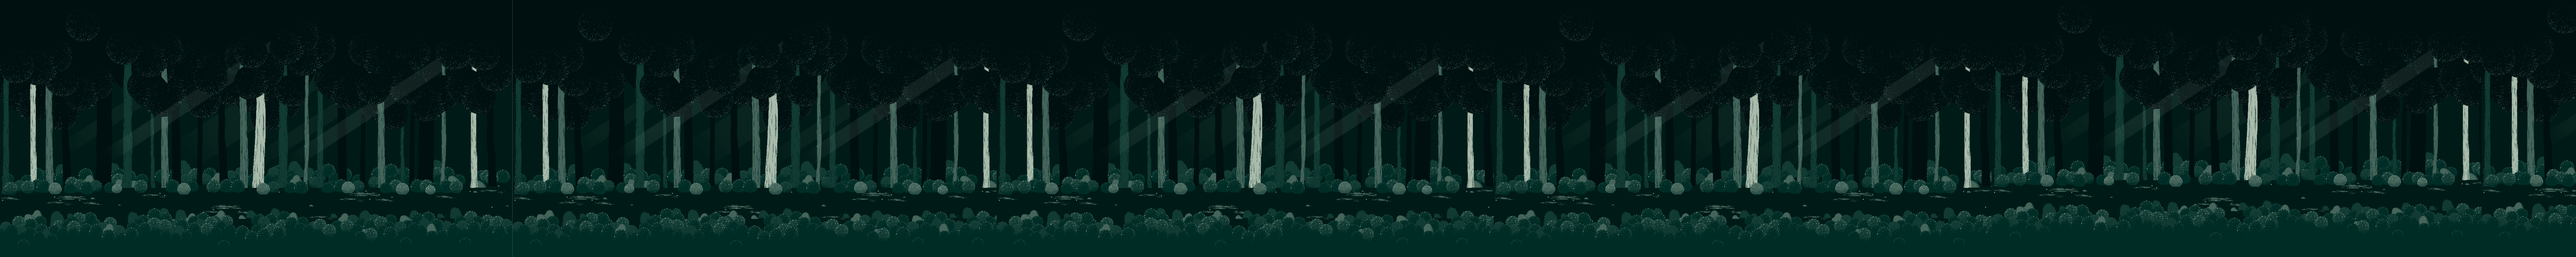
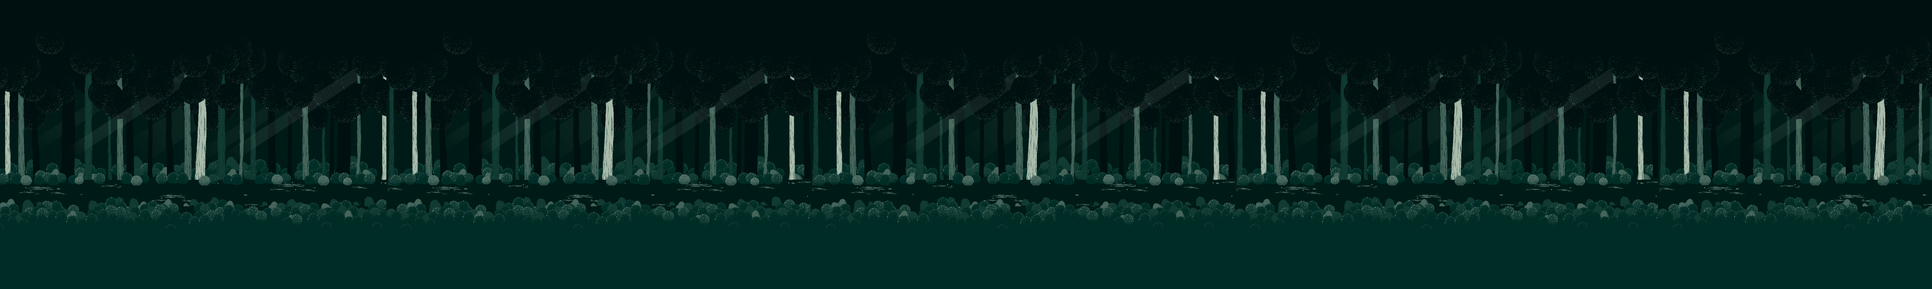
fixed background

diff --git a/can you save them!.cpp b/can you save them!.cpp
@@ -11,6 +11,9 @@ float const left_wall = 0;
 
 static const float view_height = 800;
 
+// Function to handle level transition
+
+
 
 
 struct player
@@ -72,6 +75,74 @@ struct player
 
     }
 };
+
+void handleLevelTransition(Sprite& background, player& player1, const Vector2f& originalPlayerPosition, const Texture& levelTexture) {
+    // Change the background to level 2
+    background.setTexture(levelTexture);
+    background.setScale(1.2f, 1.2f);
+    background.setPosition(0.f, -40.f);
+
+    // Reset player's position
+    player1.rect.left = originalPlayerPosition.x;
+    player1.rect.top = originalPlayerPosition.y;
+}
+
+struct enemyhana {
+    Sprite sprite;
+    int speed;
+    float animation = 0;
+    FloatRect rect;
+    float currentframe;
+    float move_x;
+    bool movingRight; // Flag to indicate the direction of movement
+
+    void initial_values(Texture& playerTexture)
+    {
+        sprite.setTexture(playerTexture);
+        sprite.setScale(2.0, 2.0);
+        move_x = 0;
+        currentframe = 0;
+        movingRight = true; // Start moving to the right initially
+
+        // Set initial position
+        rect.left = 900; // Start position x = 500
+        rect.top = 700;  // Adjust as needed
+    }
+
+    void update(float timer)
+    {
+        
+        // Update position
+        rect.left += move_x * timer;
+
+        // Switch direction if reaching the boundaries
+        if (rect.left >= 800)
+            movingRight = false;
+        else if (rect.left <= 500)
+            movingRight = true;
+
+        // Update animation
+        currentframe += 0.005 * timer;
+        if (currentframe > 8)
+        {
+            currentframe -= 8;
+        }
+
+        // Set sprite texture based on direction
+        if (move_x > 0)
+            sprite.setTextureRect(IntRect(48 * int(currentframe), 0, 48, 48));
+        else if (move_x < 0)
+            sprite.setTextureRect(IntRect(48 * int(currentframe) + 48, 0, -48, 48));
+
+        sprite.setPosition(rect.left, rect.top);
+        move_x = 0;
+    }
+};
+
+enemyhana hyena;
+
+
+
 struct Button {
     sf::Text text;
 
@@ -103,7 +174,7 @@ int main() {
     cout << " game team" << endl;
 
     RenderWindow window(VideoMode(1634, 1080), "SFML Window");
-
+    window.setFramerateLimit(60);
 
     // Load the splash texture
     Texture splashTexture, level1texture;
@@ -219,6 +290,15 @@ void Game_Play(RenderWindow& window)
     Sprite ob1(ob1tex);
     ob1.setScale(0.2, 0.2);
     ob1.setPosition(300, 750);
+
+
+    Texture hyenatext;
+    hyenatext.loadFromFile("Hyena_walk.png");
+
+    RectangleShape rectangle(sf::Vector2f(100.f, 100.f)); 
+    rectangle.setPosition(6400.f, 800.f); // Position (x=300, y=200)
+    rectangle.setFillColor(sf::Color::White); // Fill color
+   
     /*Texture attack_Texture;
     attack_Texture.loadFromFile("Attack_1.png");
 
@@ -237,16 +317,33 @@ void Game_Play(RenderWindow& window)
     dead_Texture.loadFromFile("Dead.png");
 
     */
-
+    enemyhana hyena;
+    hyena.initial_values(hyenatext);
+    hyena.sprite.setTextureRect(IntRect(0, 0, 48, 48));
+    hyena.rect.left = 10;
 
     player player1;
     player1.initial_values(playerTexture);
     player1.sprite.setTextureRect(IntRect(0, 0, 128, 128));
     player1.rect.left = 10;
     player1.rect.top = 500;
-    Vector2f playerPosition(50, 60); // Initial position
+    Vector2f playerPosition(10, 500); // Initial position
+
+    Texture level2texture;
+    level2texture.loadFromFile("level2_background.png");
 
 
+
+    /*for (int i = 0; i < 3; i++) {
+        cacodemon[i].sprite.setTexture(cacotext);
+        cacodemon[i].speed = rand() % (6 - 1 + 1) + 1;
+        cacodemon->sprite.setScale(2.5, 2.5);
+        int y = rand() % (1500 - 90 + 1) + 90;
+
+        cacodemon[i].sprite.setPosition(0, y);
+        cacodemon[i].sprite.setTextureRect(IntRect(0,0,85,64));
+    }*/
+    hyena.speed = 1; // Set the speed of the enemy
 
     Clock clock;
     int posCNT = 1, bgINX = 0;
@@ -266,6 +363,11 @@ void Game_Play(RenderWindow& window)
         timer /= 1000;
         if (timer > 100)
             timer = 100;
+
+        // Handle level transition
+        if (player1.sprite.getGlobalBounds().intersects(rectangle.getGlobalBounds())) {
+            handleLevelTransition(background, player1, playerPosition, level2texture);
+        }
 
         if (Keyboard::isKeyPressed(Keyboard::D))
         {
@@ -302,13 +404,40 @@ void Game_Play(RenderWindow& window)
             cam.move(-5, 0); // Move the view to the left
         }
 
+        
 
         player1.update(timer);
+
+       /* for (int i = 0; i < 3; i++) {
+            cacodemon[i].animation += 0.03;
+            cacodemon[i].sprite.move(cacodemon[i].speed, 0);
+
+            if (cacodemon[i].sprite.getPosition().x < 0) {
+                int y = rand() % (9) + 8;
+                cacodemon[i].sprite.setPosition(0, y);
+                cacodemon[i].speed = rand() % (6 - 1 + 1) + 1;
+            }
+
+            // Calculate the correct animation frame index, wrapping around if necessary
+            int frameWidth = 85;
+            int maxFrames = 512 / frameWidth; // Total frames in the animation
+            cacodemon[i].animation = fmod(cacodemon[i].animation, maxFrames);
+
+            cacodemon[i].sprite.setTextureRect(IntRect(frameWidth * int(cacodemon[i].animation), 0, frameWidth, 64));
+        }*/
+        float dt = clock.restart().asSeconds();
+
+        hyena.update(dt);
 
         window.clear();
         window.draw(background);
         window.draw(ob1);
         window.draw(player1.sprite);
+        //window.draw(hyena.sprite);
+        window.draw(rectangle);
+        /*for (int i = 0; i < 3; i++) {
+            window.draw(cacodemon[i].sprite);
+        }*/
         window.display();
 
 
